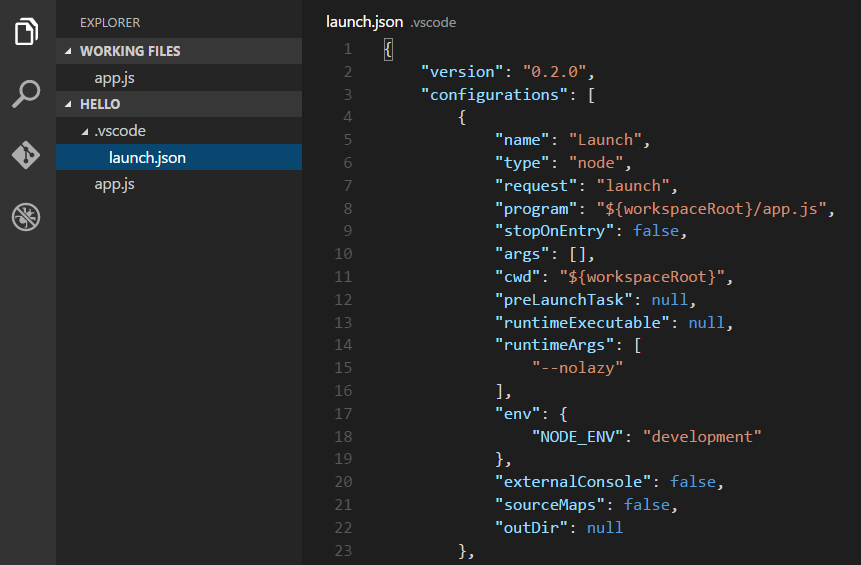
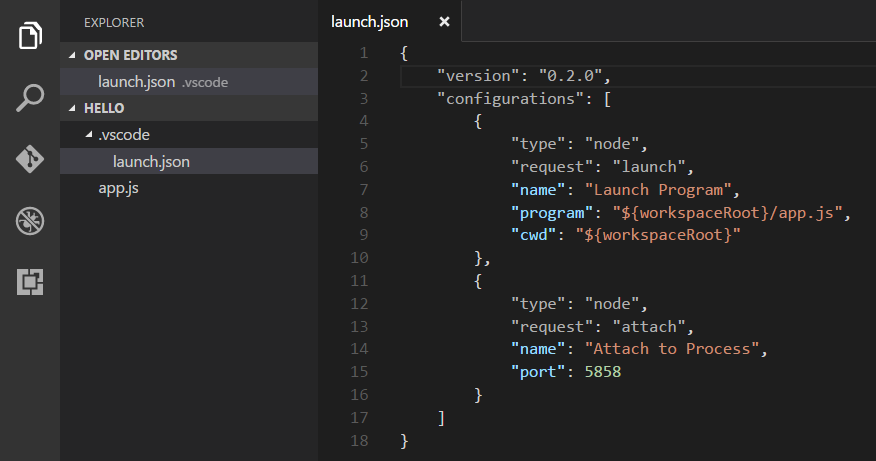
Update Node.js walkthrough for simpler launch.json

diff --git a/docs/runtimes/nodejs.md b/docs/runtimes/nodejs.md
@@ -98,7 +98,7 @@ Click on the Configure gear icon at the top of the Debug view to create a defaul
 
 ![hello world launch json](images/nodejs/hello-world-launch-json.png)
 
-With the default Node.js **Launch** configuration created, you can now click Debug tool bar green arrow or press `kb(workbench.action.debug.start)` to launch and debug "Hello World". Your breakpoint will be hit and you can view and step through the simple application.  Notice that VS Code displays an orange Status Bar to indicate it is in Debug mode and the DEBUG CONSOLE is displayed.
+With the default Node.js **Launch Program** configuration created, you can now click Debug tool bar green arrow or press `kb(workbench.action.debug.start)` to launch and debug "Hello World". Your breakpoint will be hit and you can view and step through the simple application.  Notice that VS Code displays an orange Status Bar to indicate it is in Debug mode and the DEBUG CONSOLE is displayed.
 
 ![hello world debugging](images/nodejs/hello-world-debugging.png)
 
@@ -230,11 +230,30 @@ You can also write code that references modules in other files. For example, in 
 
 ## Debugging your Express Application
 
-Just as we did earlier for "Hello World", you will need to create a debugger configuration file `launch.json` for your Express application. Click on the Debug icon in the View Bar and then the Configure gear icon at the top of the Debug view to create a default `launch.json` file.  Again select the **Node.js** environment.  When the file is first created, VS Code will look in `package.json` for a `start` script and will use that value as the `program` (which in this case is `${workspaceRoot}/bin/www`) for the **Launch** configuration. A second **Attach** configuration is also created to show you how to attach to a running Node.js application.
+Just as we did earlier for "Hello World", you will need to create a debugger configuration file `launch.json` for your Express application. Click on the Debug icon in the View Bar and then the Configure gear icon at the top of the Debug view to create a default `launch.json` file.  Again select the **Node.js** environment.  When the file is first created, VS Code will look in `package.json` for a `start` script and will use that value as the `program` (which in this case is `${workspaceRoot}/bin/www`) for the **Launch Program** configuration. A second **Attach to Process** configuration is also created to show you how to attach to a running Node.js application.
 
-![launch.json configuration file](images/nodejs/launchjson.png)
+```json
+{
+    "version": "0.2.0",
+    "configurations": [
+        {
+            "type": "node",
+            "request": "launch",
+            "name": "Launch Program",
+            "program": "${workspaceRoot}/bin/www",
+            "cwd": "${workspaceRoot}"
+        },
+        {
+            "type": "node",
+            "request": "attach",
+            "name": "Attach to Process",
+            "port": 5858
+        }
+    ]
+}
+```
 
-Save the new file and make sure **Launch** is selected in the configuration dropdown at the top of the Debug view. Open `app.js` and set a breakpoint near the top of the file where the Express app object is created by clicking in the gutter to the left of the line number. Press `kb(workbench.action.debug.start)` to start debugging the application. VS Code will start the server in a new terminal and hit the breakpoint we set. From there you can inspect variables, create watches, and step through your code.
+Save the new file and make sure **Launch Program** is selected in the configuration dropdown at the top of the Debug view. Open `app.js` and set a breakpoint near the top of the file where the Express app object is created by clicking in the gutter to the left of the line number. Press `kb(workbench.action.debug.start)` to start debugging the application. VS Code will start the server in a new terminal and hit the breakpoint we set. From there you can inspect variables, create watches, and step through your code.
 
 ![Debug session](images/nodejs/debugsession.png)
 
